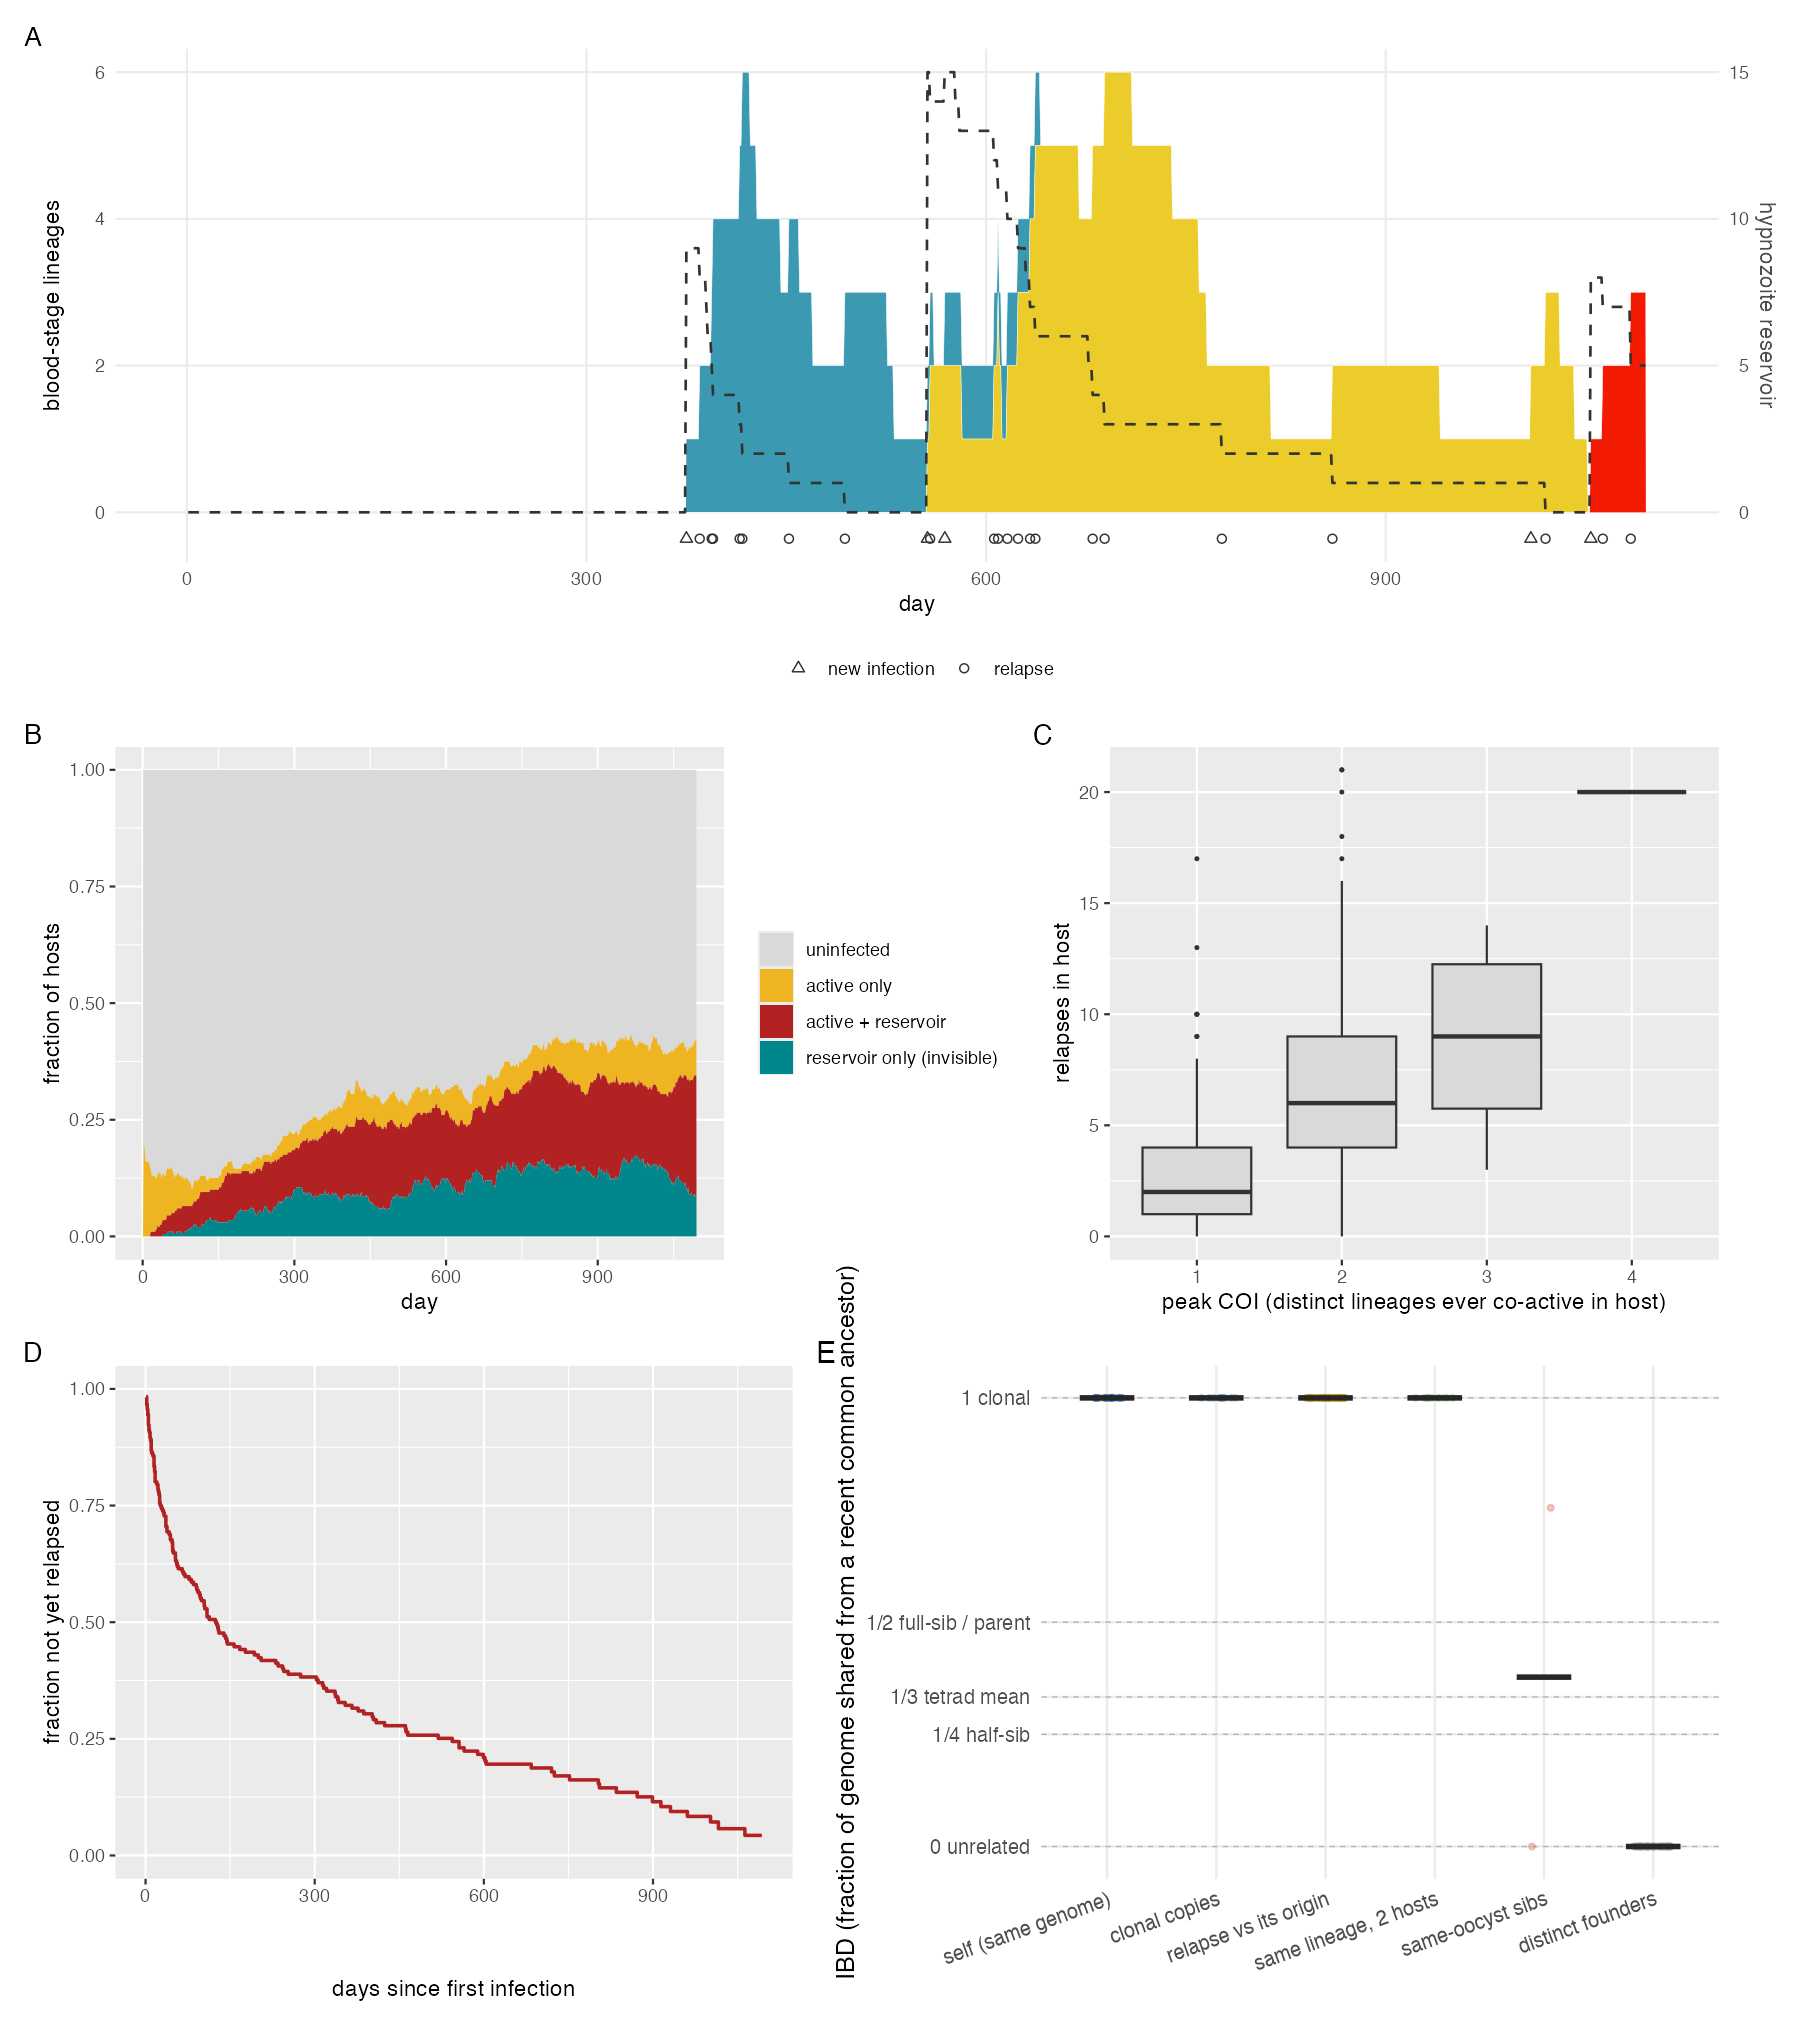
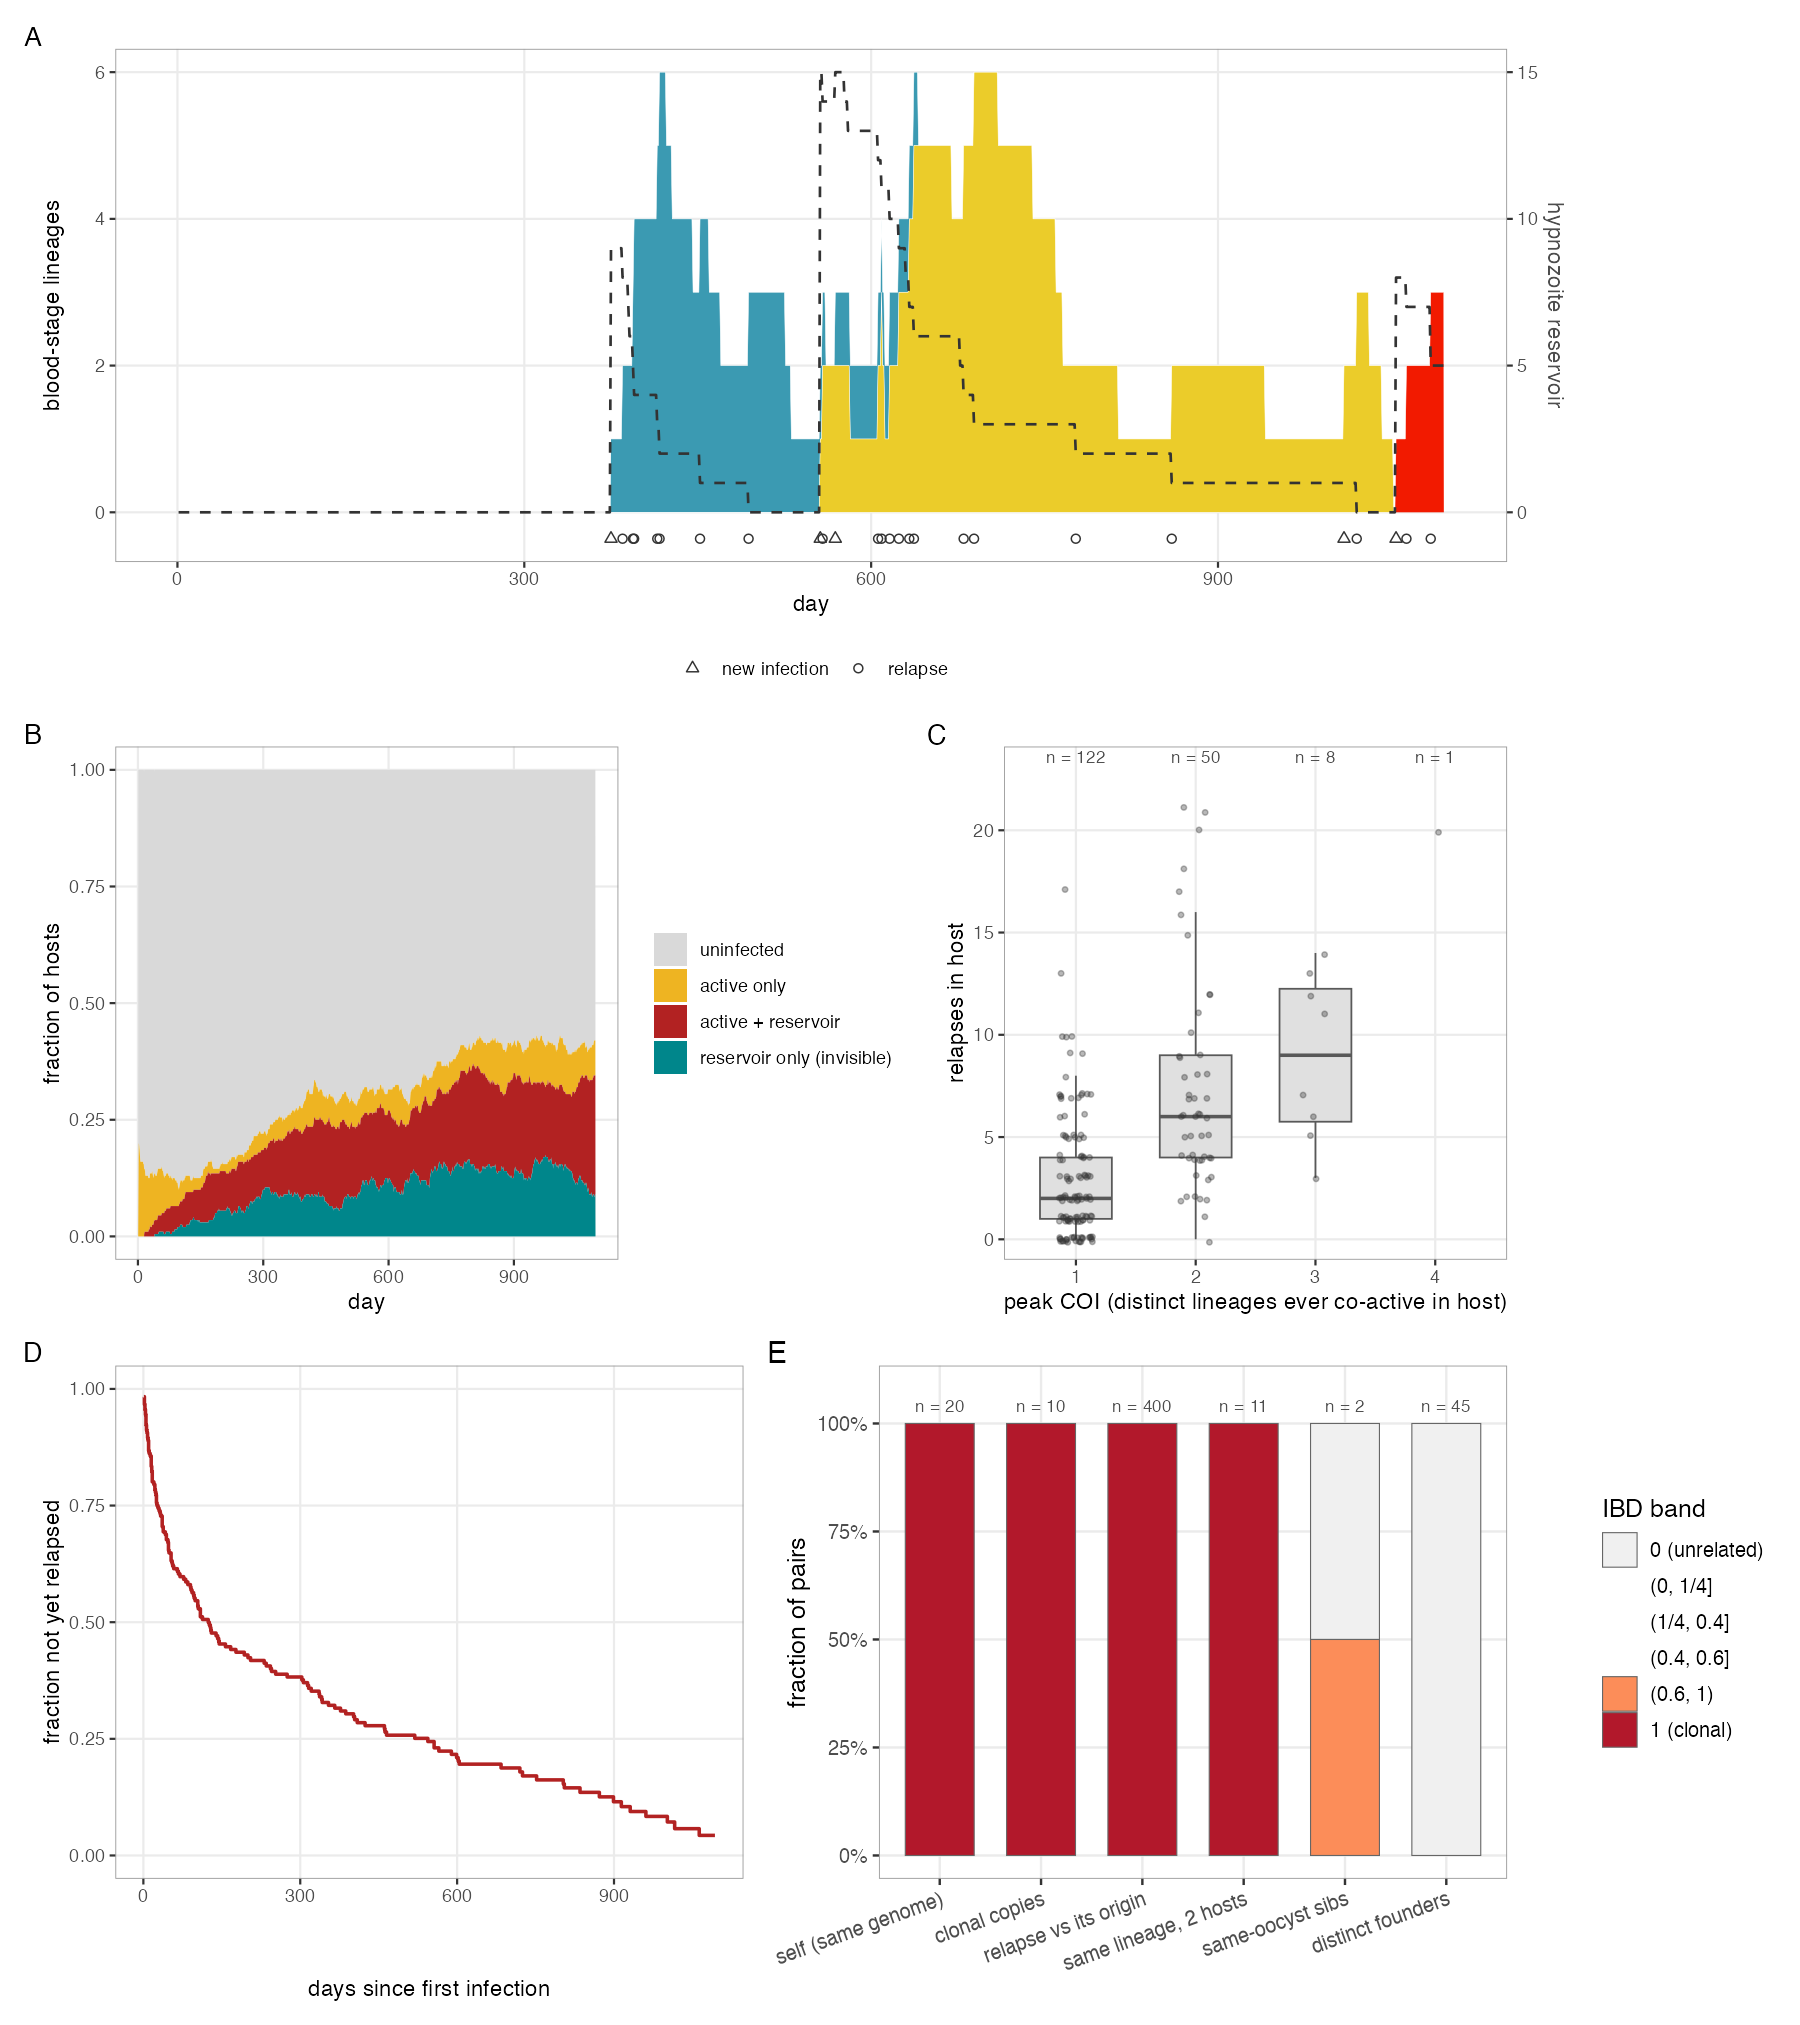
Shared theme, clearer ladder and COI panels, detection demo figure
- theme_malariafwd() (theme_bw-based) exported and applied across every plot_*()
  function, so panels compose consistently; replaces ad-hoc theme_minimal calls
- plot_relatedness_ladder(style = 'bars'): stacked relatedness-band composition.
  Most classes are point masses, so a box/crossbar collapsed to a line and implied
  a spread that is not there. Bars show the same-oocyst 50/50 split between high
  sharing and the reciprocal products that share nothing. Both styles now label n
  per class, so a class resting on 2 pairs is visible.
- plot_moi_vs_relapse(min_n = 5): boxes only where there are enough hosts, raw
  points always, n labelled - no more box drawn over a single host
- README-detection.png: true vs detected episodes. Detection reweights rather than
  thins - true 65.7% relapse vs detected 29.7%

Test fix: test-model-invariants.R called as.data.table/uniqueN unqualified without
attaching data.table, so both WS-G regression guards errored instead of running.
Now qualified; full suite passes (37 checks).

diff --git a/MODEL_DESCRIPTION.md b/MODEL_DESCRIPTION.md
@@ -31,6 +31,18 @@ crossover breakpoints (0.76); the reciprocal recombinant of that same meiosis sh
 (0.00), because reciprocal products are complementary by construction; distinct founders likewise
 share nothing.
 
+**Demonstrating the observation layer.** The same configuration rerun with
+`P_DETECT_PRIMARY = 0.60` and `P_DETECT_RELAPSE = 0.15` — relapses are often sub-patent, so a
+surveillance system sees them less often than primaries.
+
+![Detection](man/figures/README-detection.png)
+
+**A** true blood-stage episodes against detected ones. **B** the composition of each. The effect
+is not a uniform thinning but a **reweighting**: the true burden is **65.7% relapse / 34.3%
+reinfection**, while the detected line list reads **29.7% relapse / 70.3% reinfection**. Detection
+*inverts* the apparent mix, which is why any method that infers transmission from the observed
+origin split — Rc from case counts included — inherits a bias it cannot see.
+
 > At this transmission level outcrossing is rare — **168 recombinant against 3,277 clonal uptake
 > events (4.9%)** — so mosaics like the second panel are genuinely uncommon and most pairs sit at
 > 0 or 1. That is a model output, not a plotting limitation, and it is the same effect that makes
